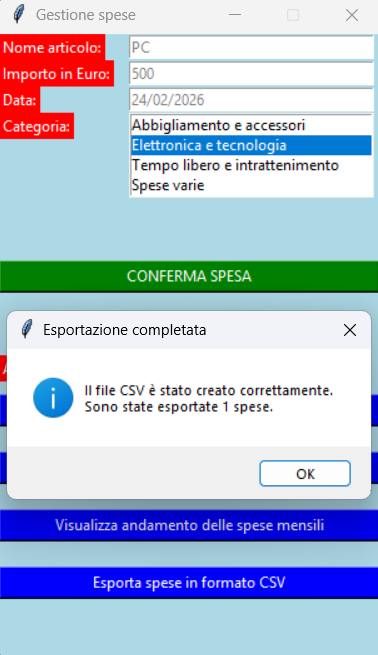
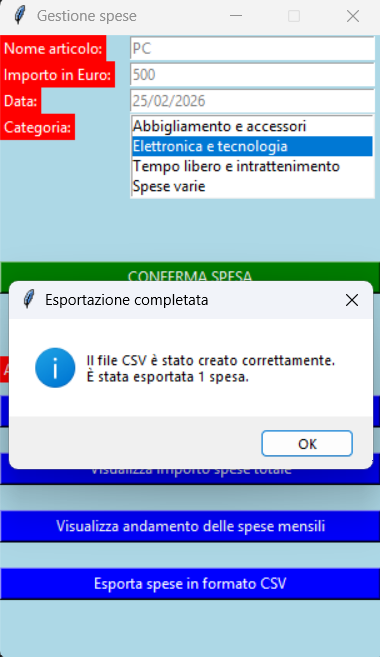
Fix: improve CSV export function

Changed region(s): [[0.0, 0.3969, 1.0, 0.8244], [0.0, 0.0, 0.9894, 0.3053], [0.0, 0.855, 1.0, 0.916]]

diff --git a/main.py b/main.py
@@ -264,11 +264,18 @@ class GestioneSpeseApp:
         numero_spese = len(spese)
 
         if file_esiste and file_non_vuoto:
-            messagebox.showinfo(
-                "Esportazione completata",
-                f"Il file CSV è stato creato correttamente.\n"
-                f"Sono state esportate {numero_spese} spese."
-            )
+            if numero_spese == 1:
+                messagebox.showinfo(
+                    "Esportazione completata",
+                    f"Il file CSV è stato creato correttamente.\n"
+                    f"È stata esportata {numero_spese} spesa."
+                )
+            else:
+                messagebox.showinfo(
+                    "Esportazione completata",
+                    f"Il file CSV è stato creato correttamente.\n"
+                    f"Sono state esportate {numero_spese} spese."
+                )
         else:
             messagebox.showerror(
                 "Errore",
